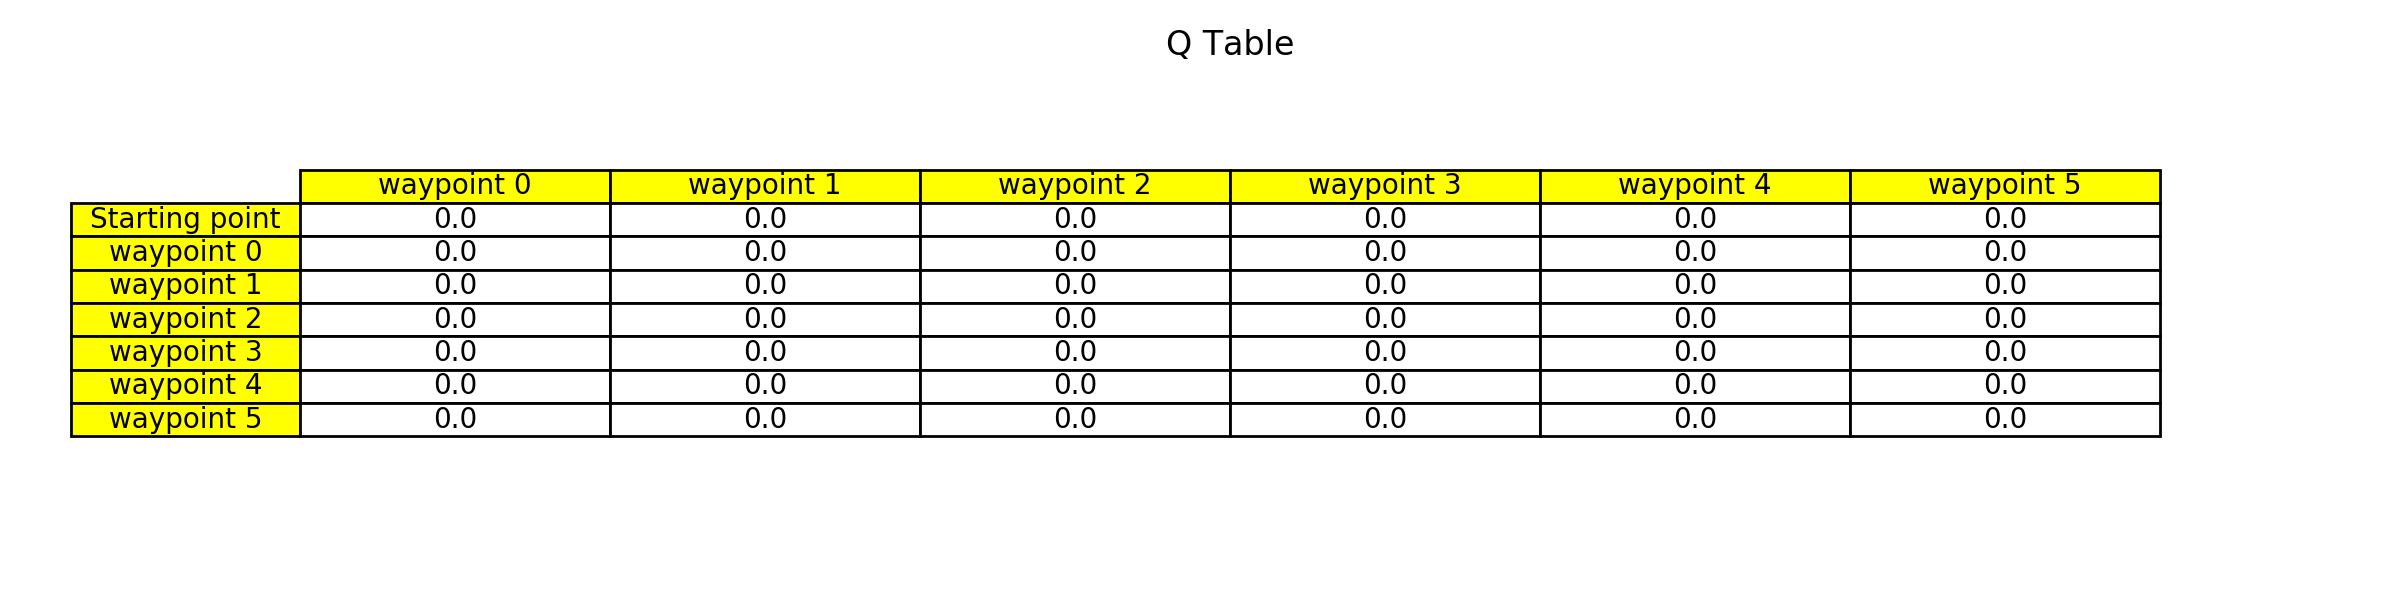
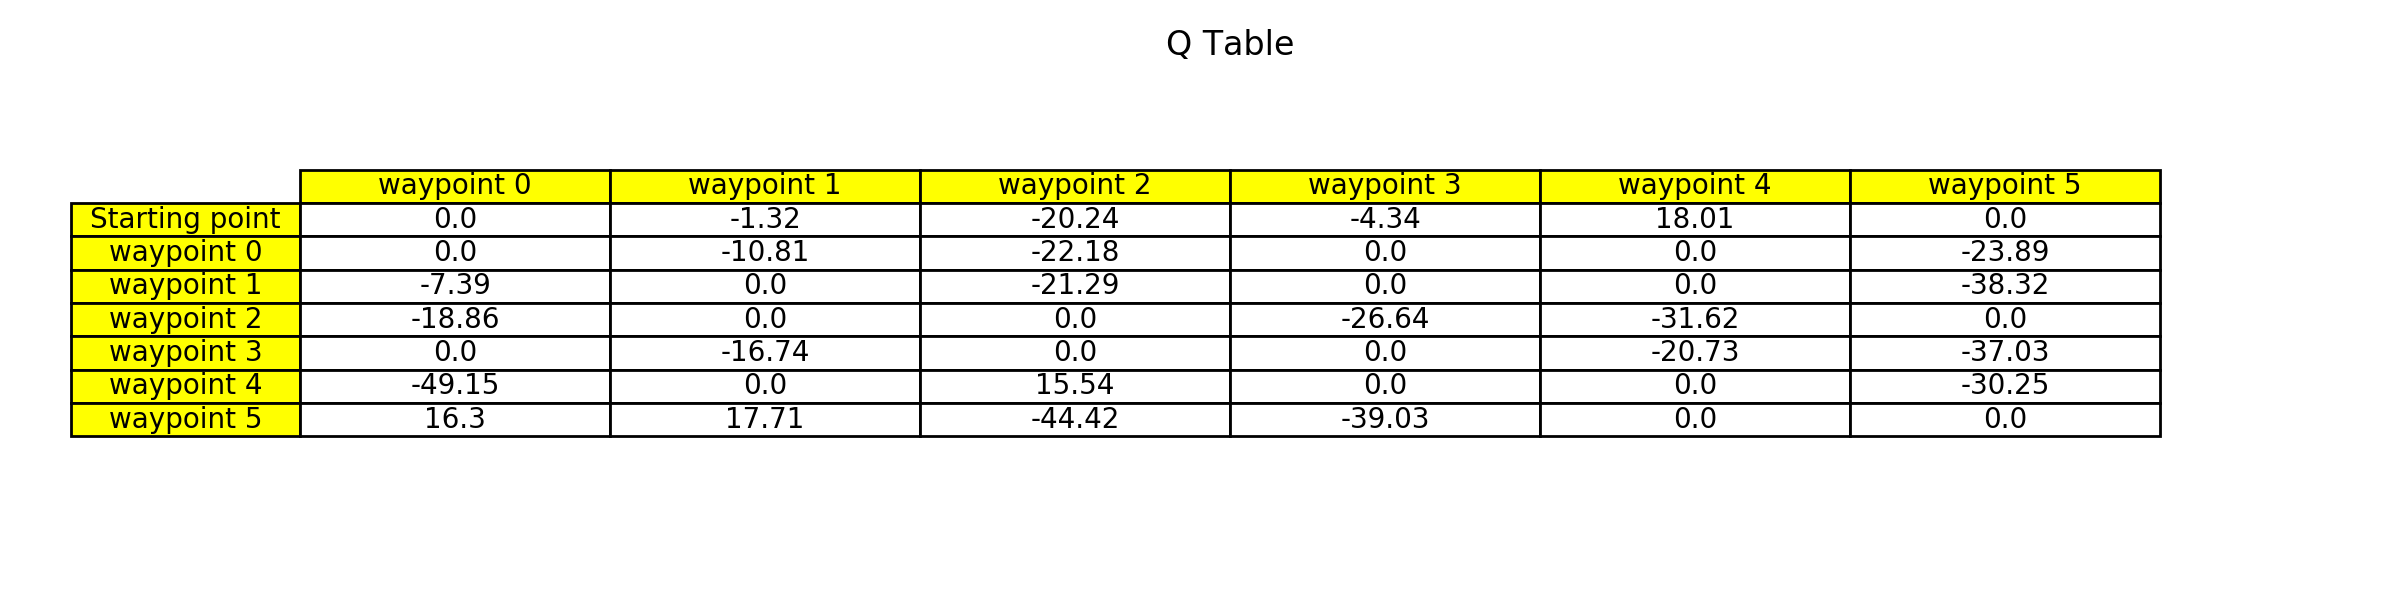
try out 5 episode without obstacles, works fine. Need to redefine reward

diff --git a/src/mall_robo_gym/scripts/mir100_rl_1.py b/src/mall_robo_gym/scripts/mir100_rl_1.py
@@ -149,7 +149,7 @@ class Waypoint_Label:
     def delete(self):
         spawn_model_prox = rospy.ServiceProxy(
             'gazebo/delete_model', DeleteModel)
-        rospy.wait_for_service('gazebo/delete_model', 2.0)
+        rospy.wait_for_service('gazebo/delete_model', 4.0)
         rospy.sleep(.2)
         res = spawn_model_prox(self.model_name)
         rospy.loginfo(f'Deleted {self.model_name}, {res}')
@@ -160,8 +160,8 @@ class Waypoint_Label:
             return
         if self.spawned:
             self.delete()
-        rospy.sleep(.2)
-        rospy.wait_for_service('gazebo/spawn_sdf_model', 2.0)
+        rospy.sleep(.3)
+        rospy.wait_for_service('gazebo/spawn_sdf_model', 4.0)
         spawn_model_prox = rospy.ServiceProxy(
             'gazebo/spawn_sdf_model', SpawnModel)
         spawn_pose = Pose()
@@ -238,7 +238,7 @@ class DynamicObstacleNavigationMir100Sim:
         self.initialize_Q_table_by_time = False
 
         # The Multiplier value for additional reward. This needs to be adjusted!
-        self.addi_reward_multiply_value = 20   # We are more concerned with reducing the overall time rather than the time it takes to get to a certain waypoint.
+        self.addi_reward_multiply_value = 10   # We are more concerned with reducing the overall time rather than the time it takes to get to a certain waypoint.
 
         # Initialize basic reward in Q-table based on the time taken between (the starting point + waypoints) and (waypoints) in an obstacle-free environment
         if self.initialize_Q_table_by_time:
@@ -262,6 +262,7 @@ class DynamicObstacleNavigationMir100Sim:
         self.waypoints_time = [0] * self.num_waypoints
 
         # teleport robot to the starting point
+        rospy.sleep(0.2)
         self.teleport(self.StartPoint_x, self.StartPoint_y)
 
         # Get the time robot start path planning
@@ -304,6 +305,7 @@ class DynamicObstacleNavigationMir100Sim:
         
         # Get reward from previous state and action
         reward_before_action = self._get_reward()
+        reward_before_action = round(reward_before_action, 2)
         rospy.loginfo(f"[{self._name}] gets reward before action: {reward_before_action}!")
 
         # Update the waypoints_status and the time elapsed
@@ -338,6 +340,7 @@ class DynamicObstacleNavigationMir100Sim:
 
         # Get reward for new action
         reward = self._get_reward() - reward_before_action + basic_reward
+        reward = round(reward, 2)
         rospy.loginfo(f"[{self._name}] gets reward for new action [{action}]: {reward}!")
 
         # End episode when all waypoints have been visited
@@ -347,7 +350,8 @@ class DynamicObstacleNavigationMir100Sim:
             # If robot completed the route give additional reward
             ## Additional reward inversely proportional to time since start of episode.
             additional_reward = (self.max_time/(self.overall_time + 0.01)) * self.addi_reward_multiply_value
-            rospy.loginfo(f"[{self._name}] gets additioanl_reward for this episode: {additional_reward}!")
+            additional_reward = round(additional_reward, 2)
+            rospy.loginfo(f"[{self._name}] gets additional_reward for this episode: {additional_reward}!")
             reward += additional_reward
 
         # Episode end if maximum time is reached
@@ -375,16 +379,15 @@ class DynamicObstacleNavigationMir100Sim:
         """
 
         # Sets the color of the point the robot is currently heading to to red
-        """
         for j in range(len(WAYPOINT_YAWS)):
             if j == action:
                 wp_name = f"Waypoint_{j}"
                 sphere = self.waypoint_labels[wp_name]
                 sphere.spawn_red(self.waypoints[j].position.x, self.waypoints[j].position.y)
-        """
-        wp_name = f"Waypoint_{action}"
-        sphere = self.waypoint_labels[wp_name]
-        sphere.spawn_red(self.waypoints[action].position.x, self.waypoints[action].position.y)
+
+        # wp_name = f"Waypoint_{action}"
+        # sphere = self.waypoint_labels[wp_name]
+        # sphere.spawn_red(self.waypoints[action].position.x, self.waypoints[action].position.y)
 
         # Move robot to next_waypoint
         wp = self.waypoints[action]
@@ -491,6 +494,7 @@ class DynamicObstacleNavigationMir100Sim:
 
 
     def teleport(self, x, y):
+
         rospy.loginfo(f"Teleport [{self._name}] robot to the starting point!")
 
         state_msg = ModelState()
@@ -551,6 +555,7 @@ class DynamicObstacleNavigationMir100Sim:
         it gets an additional reward inversely proportional to time since start of episode.
         """
         common_reward = np.sum(np.asarray(self.waypoints_status) * self.max_time / (np.asarray(self.waypoints_time) + 0.01)) - self.overall_time
+        common_reward = round(common_reward, 2)
         rospy.loginfo(f"[{self._name}] calculates common reward: {common_reward}")
         # common_reward = np.sum(np.asarray(waypoints_status) * max_time / (np.asarray(waypoints_time) + 0.01)) - overall_time
 
@@ -713,9 +718,10 @@ if __name__ == u'__main__':
     epsilon_min     # Minimum exploration rate
     epsilon_decay   # Exponential decay rate 
     """
-    agent = DeliveryQAgent(env.state_space,env.action_space,epsilon = 1.0,epsilon_min = 0.01,epsilon_decay = 0.999,gamma = 0.95,lr = 0.8)
+    agent = DeliveryQAgent(env.state_space,env.action_space,epsilon = 1.0,epsilon_min = 0.01,epsilon_decay = 0.99,gamma = 0.95,lr = 0.8)
 
-    run_num_episodes(env,agent,num_episodes = 10)
+    num_episodes = 5
+    run_num_episodes(env,agent,num_episodes)
 
     pause_physics_client = rospy.ServiceProxy('/gazebo/pause_physics', Empty)
     pause_physics_client(EmptyRequest())
@@ -737,7 +743,7 @@ if __name__ == u'__main__':
             loc="center",
             cellLoc="center",
             rowLoc="center")
-    ax2.set_title("Q Table")
+    ax2.set_title(f"Q Table ({num_episodes} Episodes)")
     
     results_path = BASE_PATH.parent.parent.parent / 'Results_Plot'
     if not results_path.exists():

diff --git a/src/mall_robo_gym/scripts/agents/q_agent.py b/src/mall_robo_gym/scripts/agents/q_agent.py
@@ -48,7 +48,8 @@ class QAgent(Agent):
 
     def train(self,s,a,r,s_next):
         # Bellman equation to update the Q value
-        self.Q[s,a] = self.Q[s,a] + self.lr * (r + self.gamma*np.max(self.Q[s_next,a]) - self.Q[s,a])
+        Q_value = self.Q[s,a] + self.lr * (r + self.gamma*np.max(self.Q[s_next,a]) - self.Q[s,a])
+        self.Q[s,a] = round(Q_value, 2)
         rospy.loginfo(f"[mir100_rl_1] updates Q table: \n{self.Q}")
 
         # Reduce epsilon (because we need less and less exploration)

diff --git a/README.md b/README.md
@@ -8,11 +8,11 @@ clear && roslaunch mall_robo_gym mir100_rl_1.launch
 ```
 cd ~/mir100RL_ws/src/mir_robot/mir_navigation/config/move_base_common_params.yaml
 ```
-- controller_patience: 5.0    # if the controller failed, clear obstacles and retry; after 5.0 s, abort and replan
+- controller_patience: 15.0    # if the controller failed, clear obstacles and retry; after 15.0 s, abort and replan
 - planner_patience: 5.0        # if the first planning attempt failed, abort planning retries after 5.0 s
 
 ### Legend for waypoints in gazebo
-![image](https://github.com/liuyuzhou66/mir100RL_ws/blob/master/Results_Plot/Legend.png)
+![Legend](https://github.com/liuyuzhou66/mir100RL_ws/blob/master/Results_Plot/Legend.png)
 - Blue sphere: those waypoints that have not been visited yet
 - Green sphere: those waypoints that have been visited
 - Red sphere: the waypoint that the robot is currently heading to
